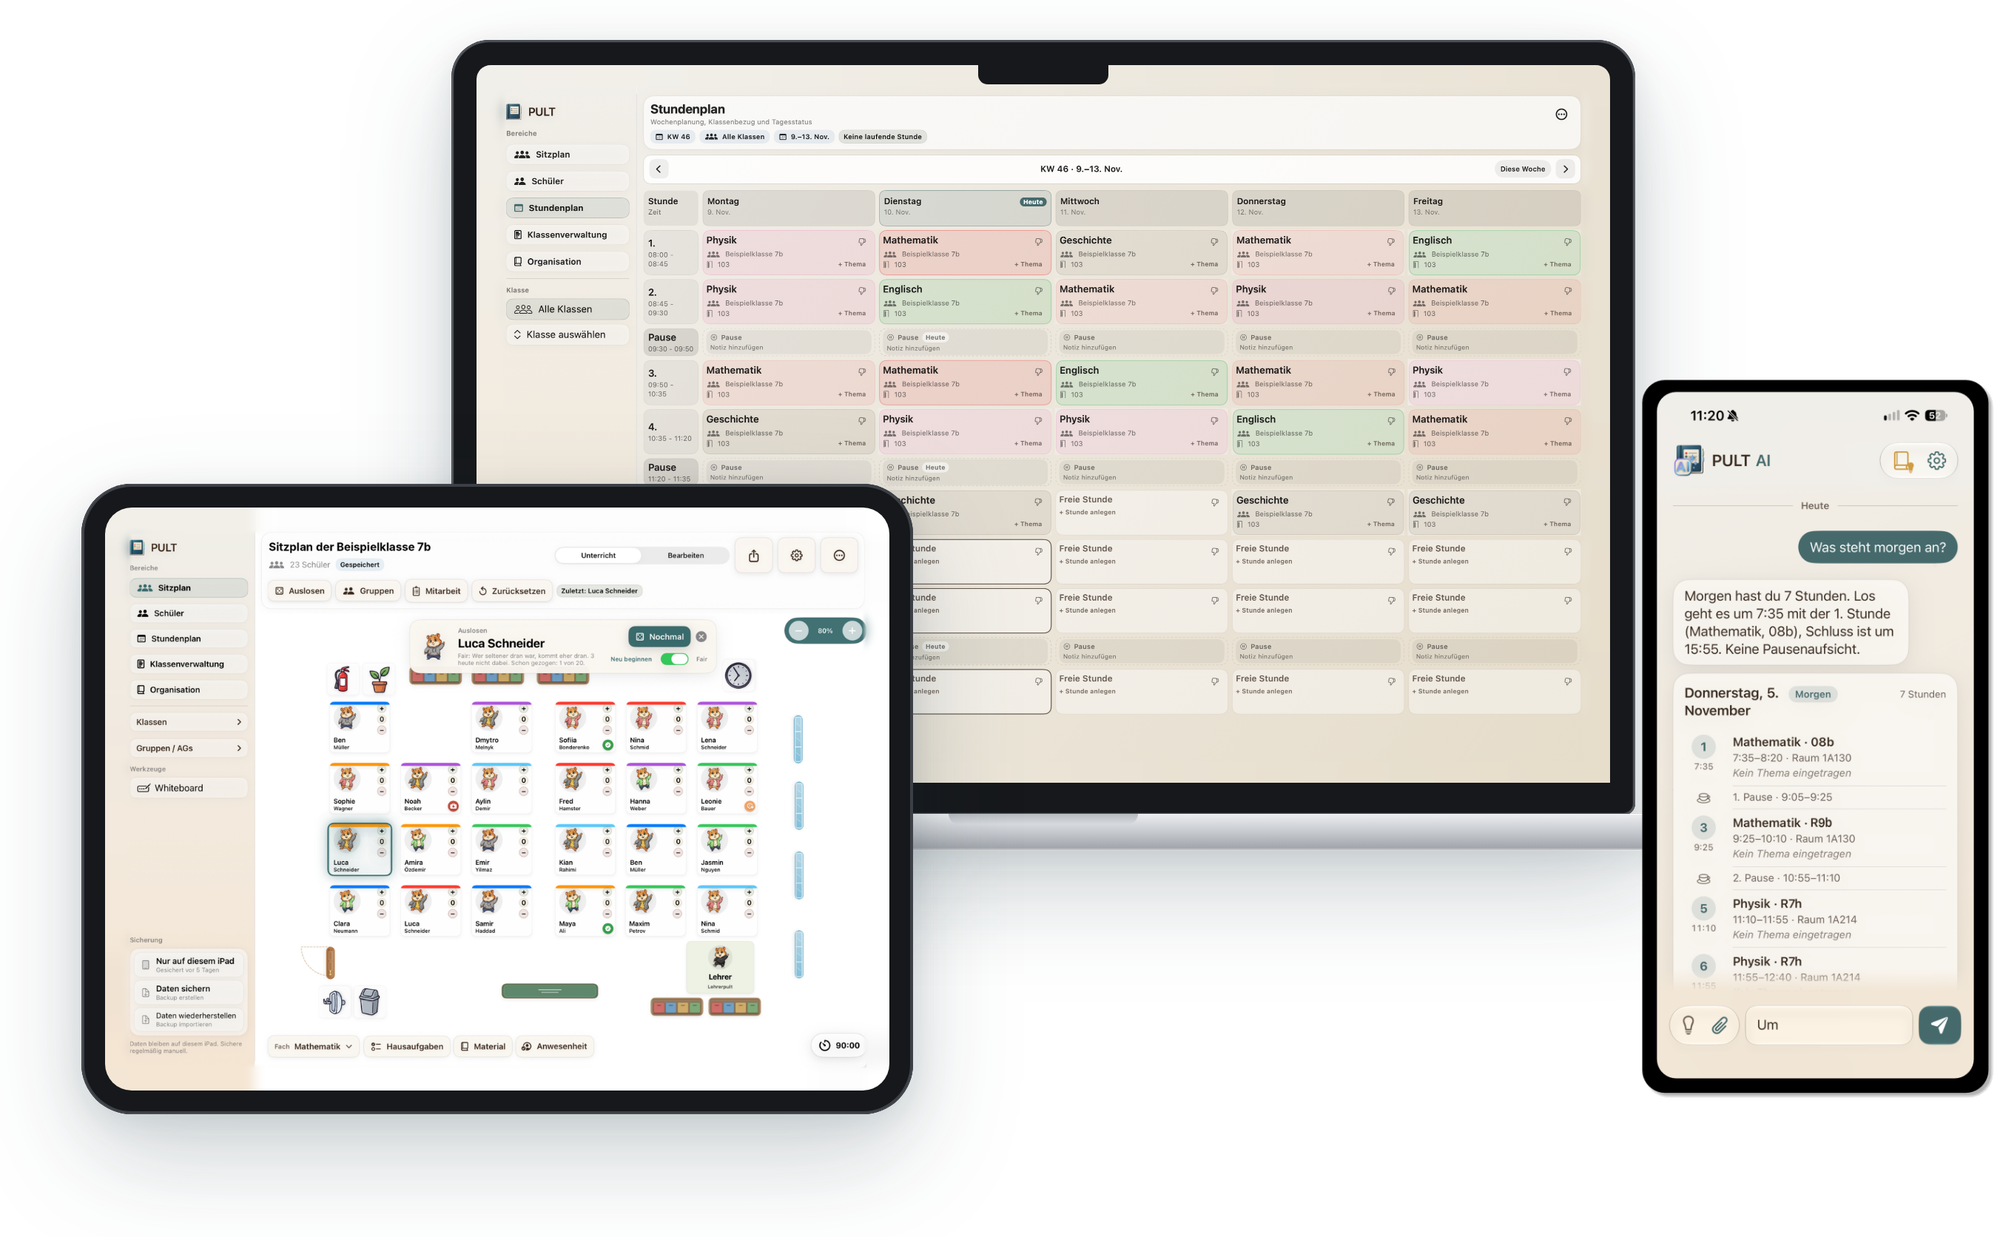
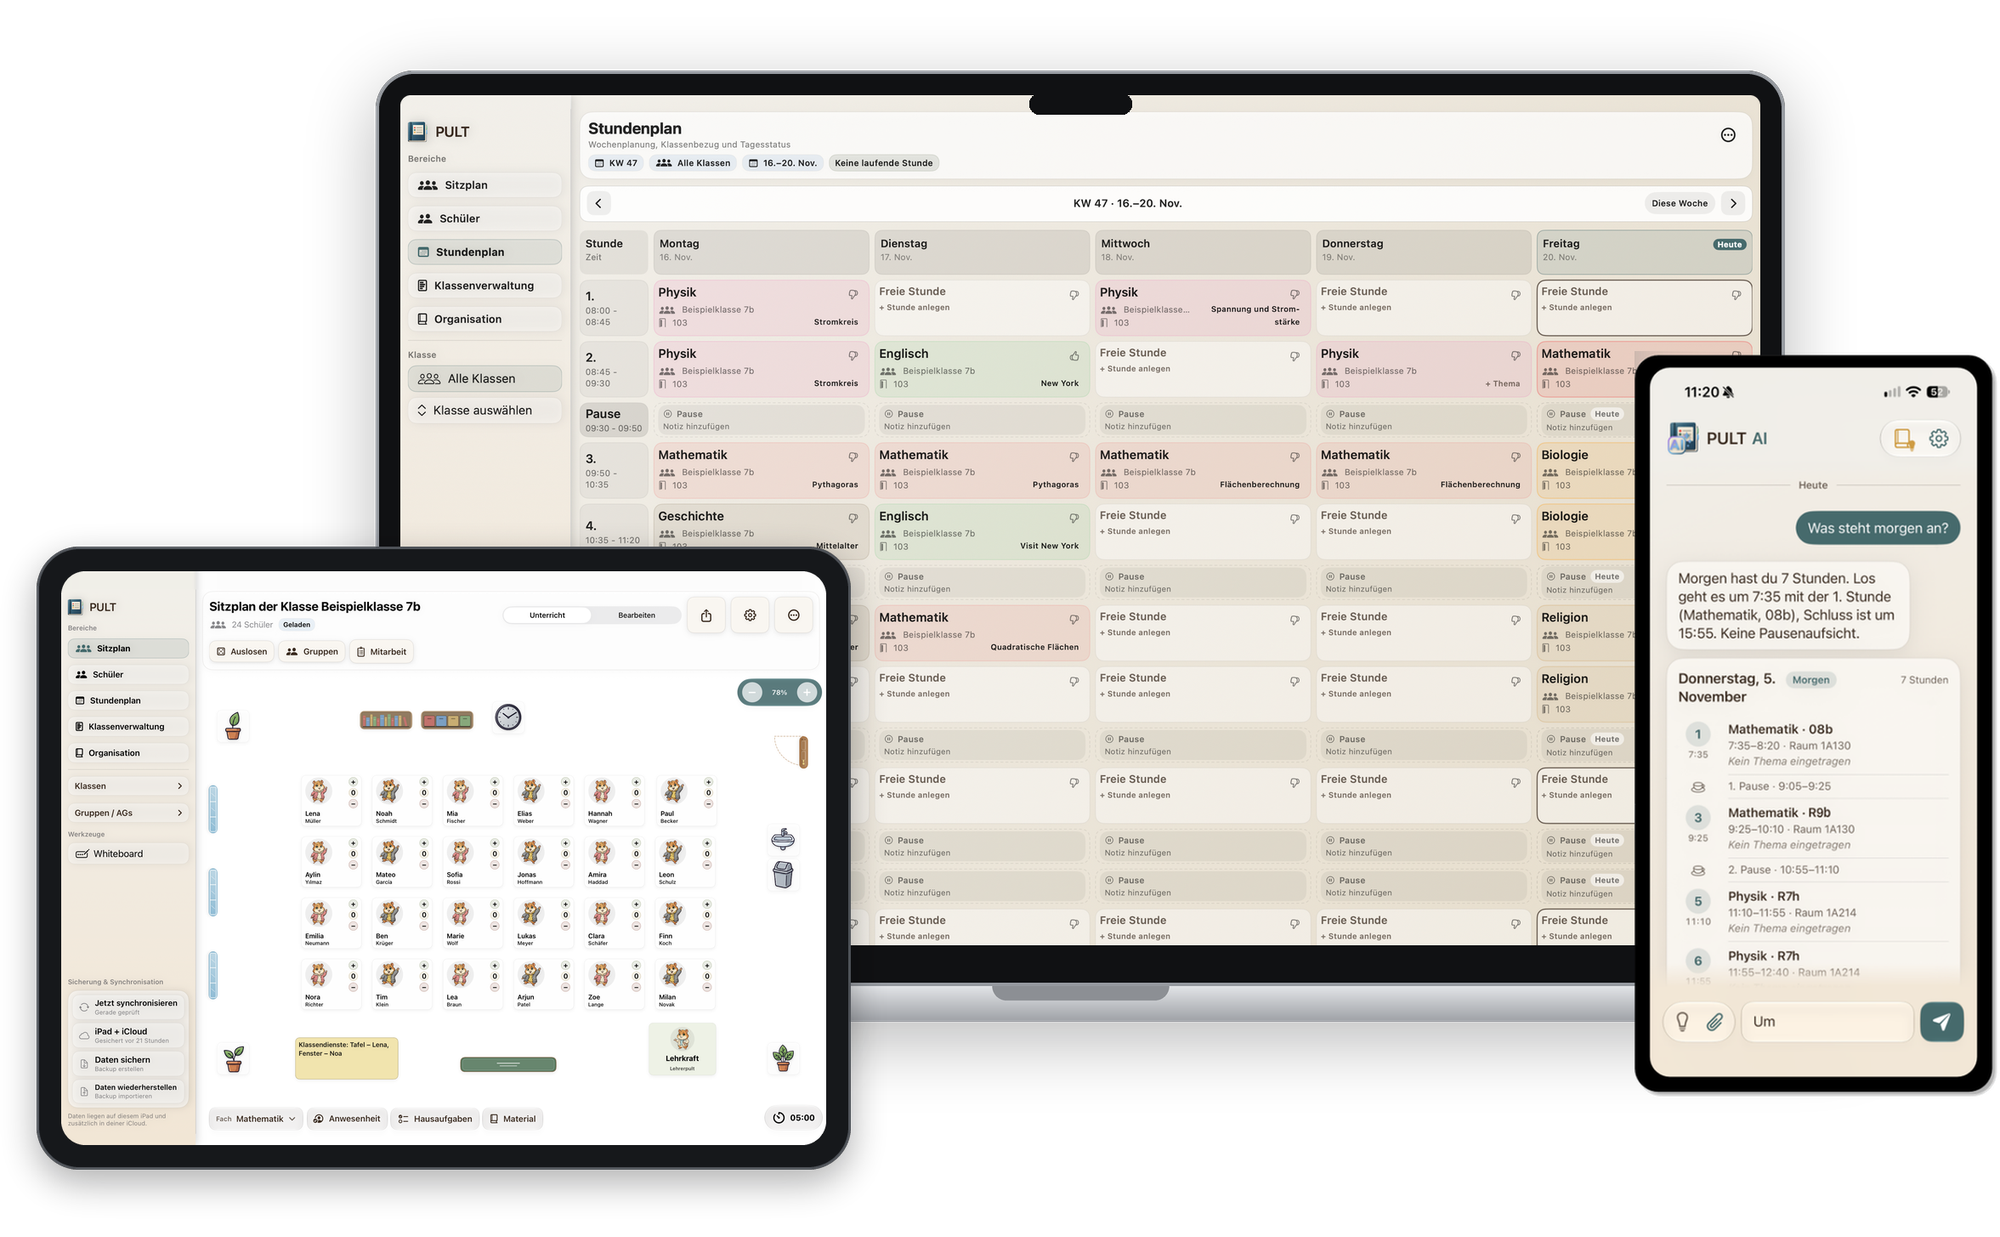
Website-Bilder mit neuen iPad- und Mac-Screens ersetzen
- Geräte-, iPad+Mac-, Sitzplan-, Timer-, Noten-, Vermerke-, Stundenplan- und Hell/Dunkel-Bilder neu (PNG + WebP, gleiche Maße)
- OG-Vorschaubild neu
- Alt-Texte an die neuen Screens angepasst, Cache-Bust ?v=20261120

Claude-Session: https://claude.ai/code/session_013LEzihJ5U8N3DQ5JpJCrTj

diff --git a/index.html b/index.html
@@ -74,8 +74,8 @@
           <figure class="hero-visual">
             <button class="screenshot-trigger" type="button" aria-label="Bild vergrößern: PULT auf Mac und iPad, PULT AI auf dem iPhone">
               <picture>
-                <source srcset="./assets/images/web/web-pult-geraete.webp" type="image/webp">
-                <img src="./assets/images/web/web-pult-geraete.png" width="2000" height="1237" alt="PULT auf dem Mac mit Wochenstundenplan und auf dem iPad mit Sitzplan, daneben die iPhone-App PULT AI" fetchpriority="high" decoding="async">
+                <source srcset="./assets/images/web/web-pult-geraete.webp?v=20261120" type="image/webp">
+                <img src="./assets/images/web/web-pult-geraete.png?v=20261120" width="2000" height="1237" alt="PULT auf dem Mac mit Wochenstundenplan und auf dem iPad mit Sitzplan, daneben die iPhone-App PULT AI" fetchpriority="high" decoding="async">
               </picture>
             </button>
           </figure>
@@ -135,8 +135,8 @@
         <figure class="feature-visual devices-visual">
           <button class="screenshot-trigger" type="button" aria-label="Bild vergrößern: Derselbe PULT-Sitzplan auf iPad und Mac">
             <picture>
-              <source srcset="./assets/images/web/web-pult-ipad-und-mac.webp" type="image/webp">
-              <img src="./assets/images/web/web-pult-ipad-und-mac.png" width="2000" height="1242" alt="Derselbe PULT-Sitzplan der Beispielklasse 7b auf dem iPad und auf dem Mac" loading="lazy" decoding="async">
+              <source srcset="./assets/images/web/web-pult-ipad-und-mac.webp?v=20261120" type="image/webp">
+              <img src="./assets/images/web/web-pult-ipad-und-mac.png?v=20261120" width="2000" height="1242" alt="Derselbe PULT-Sitzplan der Beispielklasse 7b auf dem iPad und auf dem Mac" loading="lazy" decoding="async">
             </picture>
           </button>
         </figure>
@@ -176,8 +176,8 @@
           <figure class="feature-visual">
             <button class="screenshot-trigger" type="button" aria-label="Screenshot vergrößern: Auslosung im PULT-Sitzplan">
               <picture>
-                <source srcset="./assets/images/web/web-pult-sitzplan.webp?v=20261111b" type="image/webp">
-                <img src="./assets/images/web/web-pult-sitzplan.png?v=20261111b" width="1600" height="1237" alt="Sitzplan der Beispielklasse 7b in PULT, wie ihn die Klasse am Beamer sieht" loading="lazy" decoding="async">
+                <source srcset="./assets/images/web/web-pult-sitzplan.webp?v=20261120" type="image/webp">
+                <img src="./assets/images/web/web-pult-sitzplan.png?v=20261120" width="1600" height="1237" alt="Sitzplan der Beispielklasse 7b in PULT, wie ihn die Klasse am Beamer sieht" loading="lazy" decoding="async">
               </picture>
             </button>
           </figure>
@@ -197,8 +197,8 @@
           <figure class="feature-visual">
             <button class="screenshot-trigger" type="button" aria-label="Screenshot vergrößern: Timer mit Arbeitsauftrag">
               <picture>
-                <source srcset="./assets/images/web/web-pult-timer.webp" type="image/webp">
-                <img src="./assets/images/web/web-pult-timer.png" width="1600" height="1237" alt="PULT-Timer im dunklen Modus mit Arbeitsauftrag, Einzelarbeit, Flüsterlautstärke und 08:58 Restzeit" loading="lazy" decoding="async">
+                <source srcset="./assets/images/web/web-pult-timer.webp?v=20261120" type="image/webp">
+                <img src="./assets/images/web/web-pult-timer.png?v=20261120" width="1600" height="1237" alt="PULT-Timer in der großen Ansicht mit Arbeitsauftrag „Buchseite 42, Aufgaben 1 bis 5“, Partnerarbeit, Flüsterlautstärke und 05:00 Minuten" loading="lazy" decoding="async">
               </picture>
             </button>
           </figure>
@@ -256,8 +256,8 @@
           <figure class="feature-visual">
             <button class="screenshot-trigger" type="button" aria-label="Screenshot vergrößern: Notenübersicht">
               <picture>
-                <source srcset="./assets/images/web/web-pult-noten.webp" type="image/webp">
-                <img src="./assets/images/web/web-pult-noten.png" width="1600" height="1237" alt="Notenbuch in PULT mit farbigen Noten, Schnellnote und Notenblock für Kurztests" loading="lazy" decoding="async">
+                <source srcset="./assets/images/web/web-pult-noten.webp?v=20261120" type="image/webp">
+                <img src="./assets/images/web/web-pult-noten.png?v=20261120" width="1600" height="1237" alt="Notenbuch in PULT mit farbigen Noten für Klassenarbeiten, Mündliches, Hausaufgaben und Vokabeltests samt Durchschnitt" loading="lazy" decoding="async">
               </picture>
             </button>
           </figure>
@@ -271,8 +271,8 @@
           <figure class="feature-visual mac-feature-visual">
             <button class="screenshot-trigger" type="button" aria-label="Screenshot vergrößern: Vermerke in PULT auf dem Mac">
               <picture>
-                <source srcset="./assets/images/web/web-pult-mac-vermerke.webp" type="image/webp">
-                <img src="./assets/images/web/web-pult-mac-vermerke.png" width="2000" height="1356" alt="Vermerke in PULT auf dem Mac: Elterngespräch, Förderhinweis, Absprache, Lob und positive Rückmeldungen der Beispielklasse 7b" loading="lazy" decoding="async">
+                <source srcset="./assets/images/web/web-pult-mac-vermerke.webp?v=20261120" type="image/webp">
+                <img src="./assets/images/web/web-pult-mac-vermerke.png?v=20261120" width="2000" height="1356" alt="Vermerke in PULT auf dem Mac: Gute Mitarbeit, Elterngespräch, Förderhinweis und Absprache der Beispielklasse 7b" loading="lazy" decoding="async">
               </picture>
             </button>
           </figure>
@@ -292,8 +292,8 @@
           <figure class="feature-visual mac-feature-visual">
             <button class="screenshot-trigger" type="button" aria-label="Screenshot vergrößern: Wochenstundenplan">
               <picture>
-                <source srcset="./assets/images/web/web-pult-mac-stundenplan.webp" type="image/webp">
-                <img src="./assets/images/web/web-pult-mac-stundenplan.png" width="2000" height="1356" alt="Wochenstundenplan in PULT auf dem Mac mit Fächern, Räumen, Pausen und freien Stunden" loading="lazy" decoding="async">
+                <source srcset="./assets/images/web/web-pult-mac-stundenplan.webp?v=20261120" type="image/webp">
+                <img src="./assets/images/web/web-pult-mac-stundenplan.png?v=20261120" width="2000" height="1356" alt="Wochenstundenplan in PULT auf dem Mac mit Fächern, Räumen, Pausen und freien Stunden" loading="lazy" decoding="async">
               </picture>
             </button>
           </figure>
@@ -326,8 +326,8 @@
           <figure class="feature-visual mode-visual">
             <button class="screenshot-trigger" type="button" aria-label="Screenshot vergrößern: PULT im hellen und dunklen Modus">
               <picture>
-                <source srcset="./assets/images/web/web-pult-hell-dunkel.webp" type="image/webp">
-                <img src="./assets/images/web/web-pult-hell-dunkel.png" width="1600" height="1175" alt="PULT im hellen und im dunklen Modus" loading="lazy" decoding="async">
+                <source srcset="./assets/images/web/web-pult-hell-dunkel.webp?v=20261120" type="image/webp">
+                <img src="./assets/images/web/web-pult-hell-dunkel.png?v=20261120" width="1600" height="1175" alt="Der PULT-Sitzplan im hellen und im dunklen Design auf dem iPad" loading="lazy" decoding="async">
               </picture>
             </button>
           </figure>
